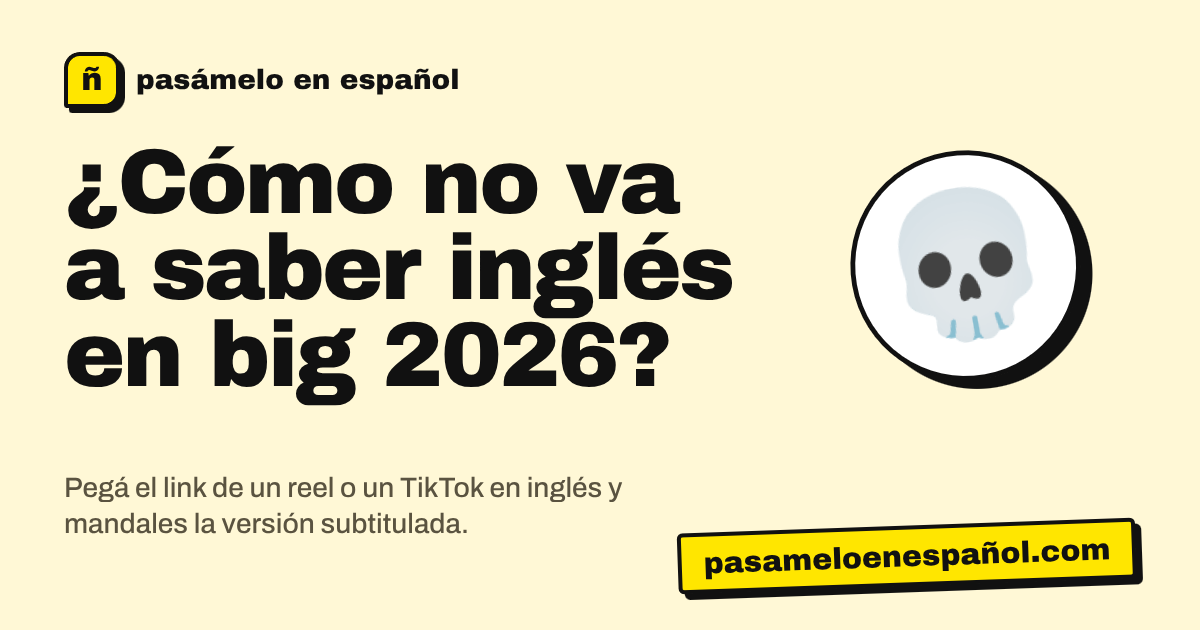
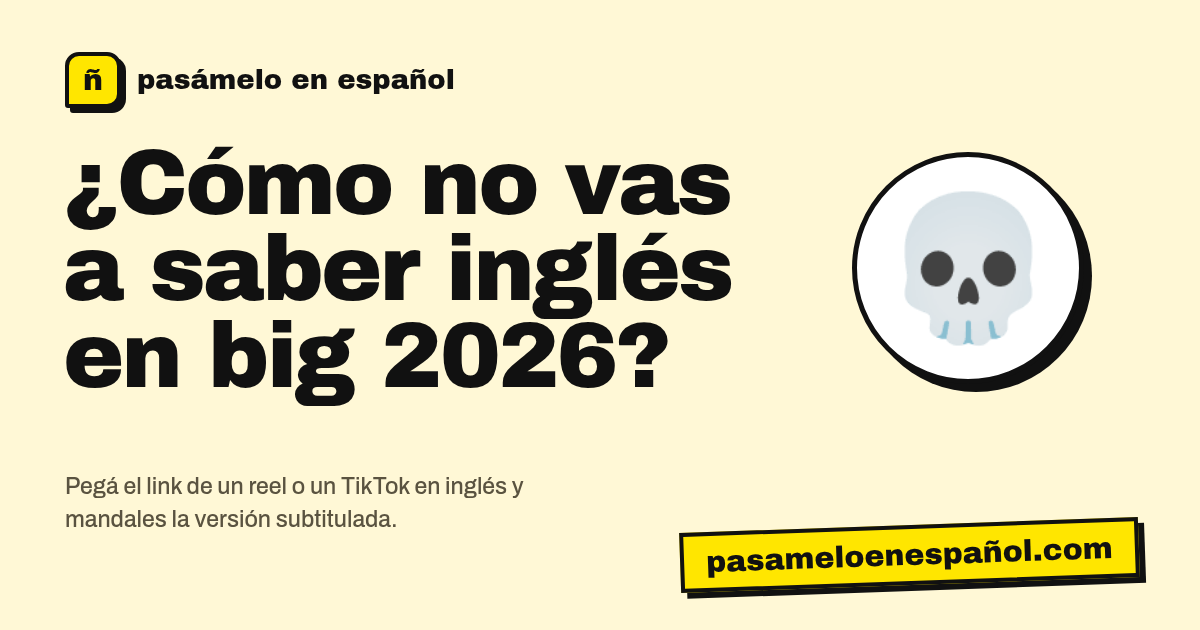
Home: «¿Cómo no vas a saber…?» y el footer linkea a foolstack.sh
- El título, la descripción, el README y la imagen para compartir decían «no va a saber».
- «Hecho por Fool Stack Dev» va a foolstack.sh y «Código abierto» a foolstack.sh/mochila.
  PUBLIC_REPO_URL pasa a llamarse PUBLIC_CODIGO_URL (no estaba configurada en ningún lado).

diff --git a/web/src/env.d.ts b/web/src/env.d.ts
@@ -2,7 +2,7 @@ interface ImportMetaEnv {
   readonly PUBLIC_TURNSTILE_SITE_KEY?: string;
   readonly PUBLIC_MAX_POR_IP_DIA?: string;
   readonly PUBLIC_MAX_DURACION_S?: string;
-  readonly PUBLIC_REPO_URL?: string;
+  readonly PUBLIC_CODIGO_URL?: string;
   readonly PUBLIC_AUTOR_URL?: string;
   readonly PUBLIC_SITE_URL?: string;
 }

diff --git a/README.md b/README.md
@@ -1,8 +1,8 @@
 # pasameloenespañol.com
 
-¿Cómo no va a saber inglés en big 2026? 💀 Pegás el link de un reel de Instagram o un TikTok en inglés y te devuelve un link con el video subtitulado al español, listo para mandárselo a quien no sabe inglés. Gratis, sin cuenta, y el link dura 24 horas.
+¿Cómo no vas a saber inglés en big 2026? 💀 Pegás el link de un reel de Instagram o un TikTok en inglés y te devuelve un link con el video subtitulado al español, listo para mandárselo a quien no sabe inglés. Gratis, sin cuenta, y el link dura 24 horas.
 
-Hecho por [Mat · Fool Stack Dev](https://www.instagram.com/le.mat1337/) como proyecto abierto: el código está acá para que lo leas, lo critiques y lo uses.
+Hecho por [Mat · Fool Stack Dev](https://foolstack.sh) como proyecto abierto: el código está acá para que lo leas, lo critiques y lo uses.
 
 ## Cómo funciona
 
